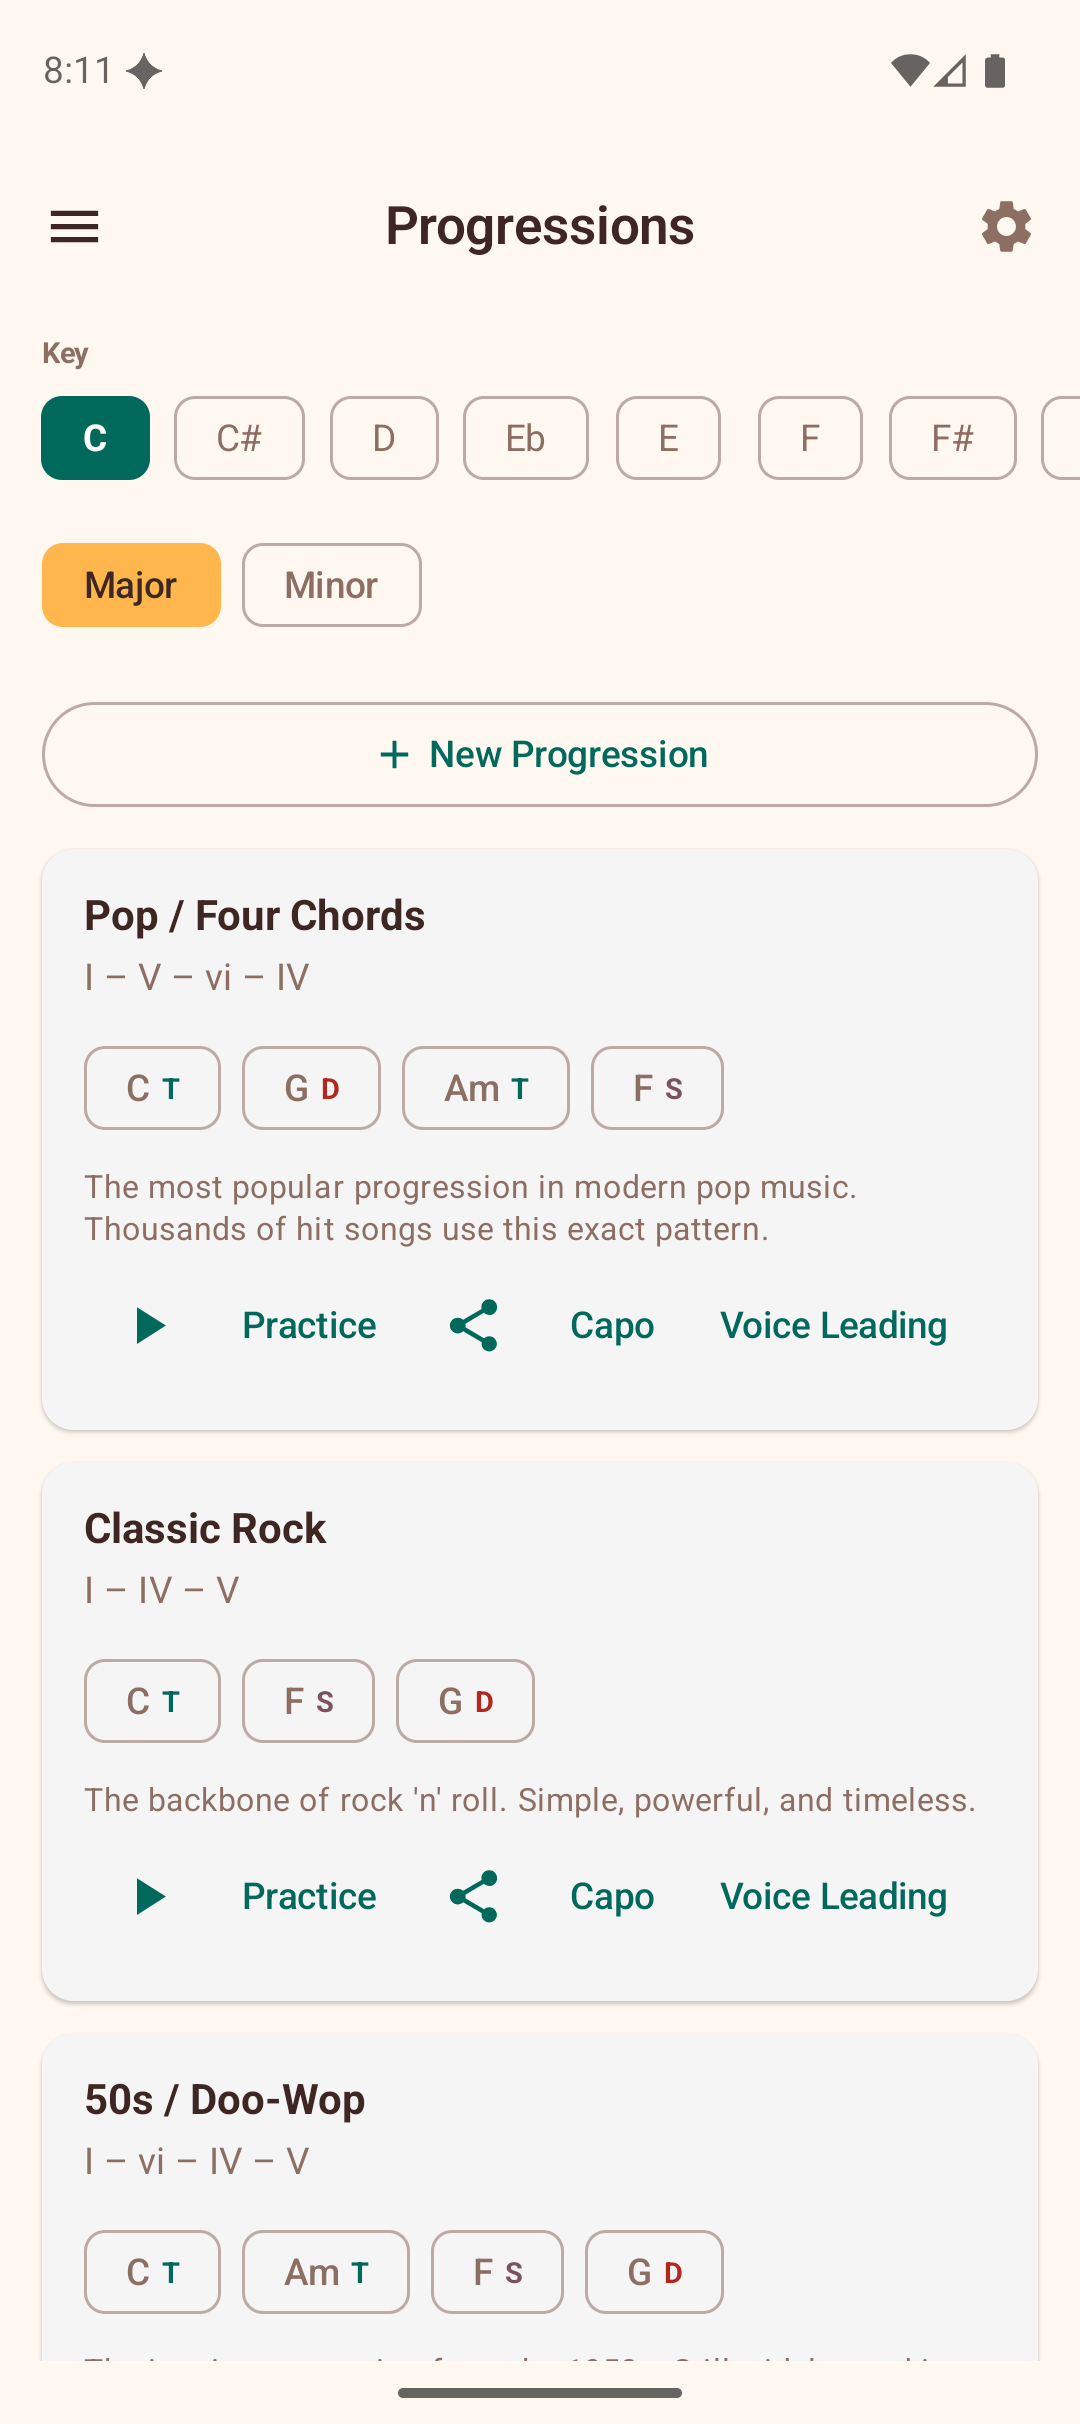
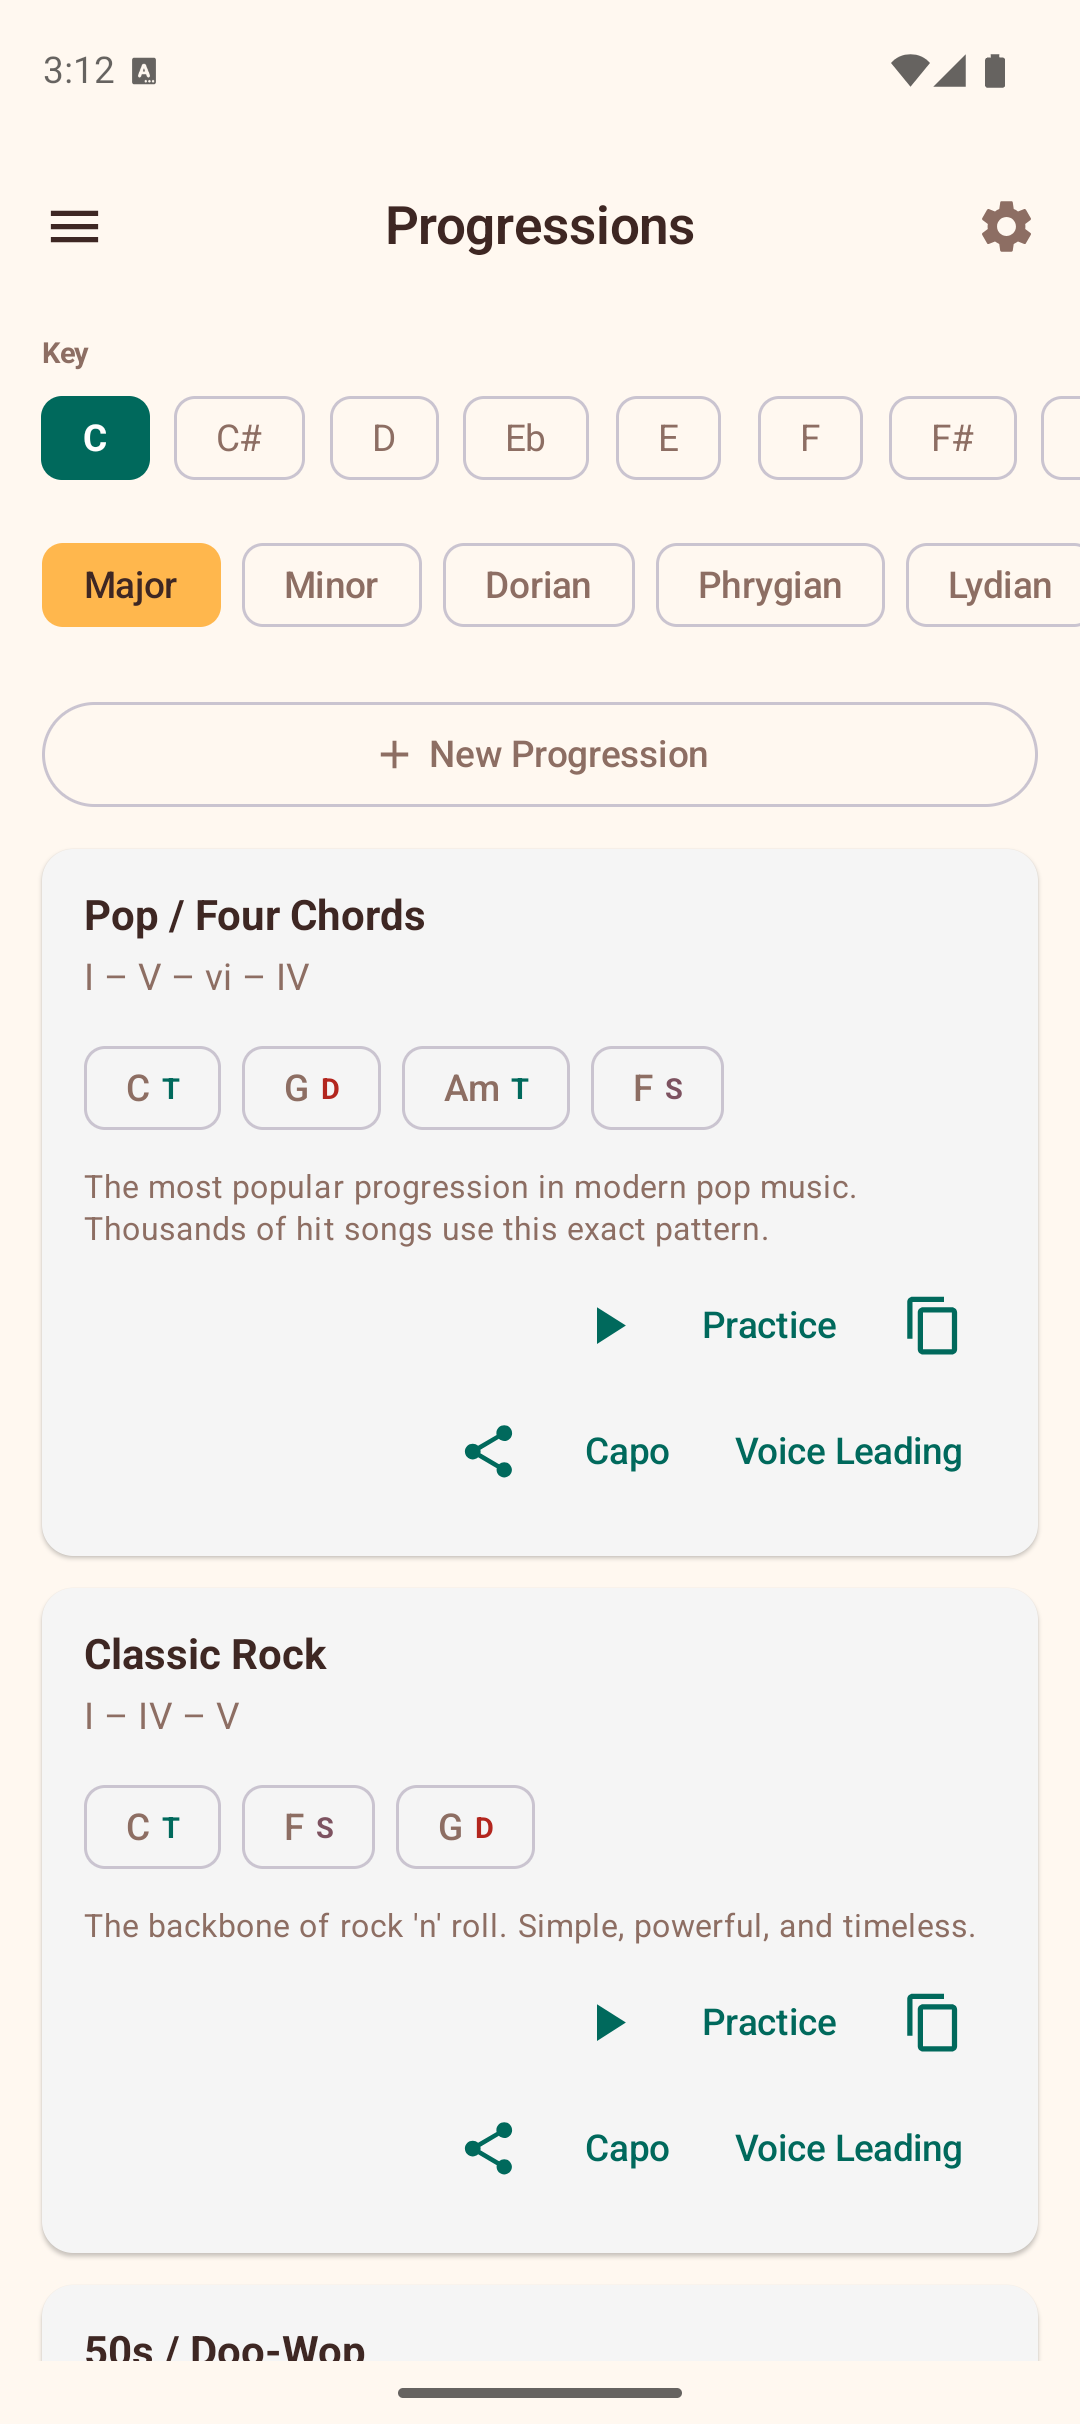
Docs: update screenshots and manual for recent UI changes
Recapture all 6 docs/screenshots images to reflect chord alias
display, enhanced voicing cards, mode selector, and pattern updates.
Update Explorer, Chords, and Progressions manual pages with new
features: chord detail info, "Also written as" aliases, inversion
filters, share icon, and 7-mode progression support.

diff --git a/docs/manual/02-explorer.md b/docs/manual/02-explorer.md
@@ -26,9 +26,24 @@ When no frets are selected, the area below the fretboard shows a **"Try these be
 
 Tap any fret cell on the fretboard to place or remove a finger. The fretboard displays frets 0 through 12 across four strings (G, C, E, A in standard tuning).
 
-As you tap frets, the app analyzes the selected notes and shows the detected chord name above the fretboard. The app recognizes 9 chord types: Major, Minor, Dom7, Min7, Maj7, Diminished, Augmented, Sus2, and Sus4.
+As you tap frets, the app analyzes the selected notes and shows the detected chord name above the fretboard. The app recognizes 20 chord types across four categories:
+
+- **Triads** — Major, Minor, Diminished, Augmented
+- **Seventh** — Dom7, Min7, Maj7, Aug7, Dim7, Minor Major 7th
+- **Suspended** — Sus2, Sus4, 7sus4
+- **Extended** — 6, Min6, 9, Min9, Add9
 
 ![Chord detected on fretboard](screenshots/explorer-chord-detected.png)
+
+### Chord Detail Info
+
+When a chord is detected, the area below the fretboard shows detailed information:
+
+- **Chord name** — with slash notation for inversions (e.g., C/E).
+- **Quality** — e.g., "Major", "Minor 7th (1st Inv)".
+- **Also written as** — alternate notational symbols used in different musical traditions. For example, detecting "Cdim" also shows "C°", and "Cmaj7" also shows "CM7, CΔ7, C^7". This helps you recognize the same chord written in different styles across books, apps, and sheet music.
+- **Alternate interpretations** — when the same set of notes can form a different chord (e.g., Am7 and C6 share the same notes).
+- **Intervals, Formula, Fingering, Difficulty, Inversion** — detailed music theory breakdown.
 
 ## Transpose
 
@@ -40,10 +55,9 @@ The scale overlay highlights notes from a selected scale directly on the fretboa
 
 To use the scale overlay:
 
-1. Scroll down below the fretboard to find the **Scale** section.
-2. Toggle the scale overlay on.
-3. Select a **root note** (e.g., C, G, D).
-4. Select a **scale type** (Major, Minor, Pentatonic Major, Pentatonic Minor, Blues, Dorian, or Mixolydian).
+1. Tap the **Scales** button below the fretboard.
+2. Select a **root note** (e.g., C, G, D).
+3. Select a **scale type** (Major, Natural Minor, Harmonic Minor, Melodic Minor, Pentatonic Major, Pentatonic Minor, Blues, Dorian, Mixolydian, or Lydian).
 
 Scale notes are highlighted on the fretboard, with the root note shown in a distinct color.
 
@@ -65,6 +79,15 @@ When a scale overlay is active, the fretboard automatically uses the correct not
 ### Chords in This Scale
 
 Below the position chips, the app lists the **chords that naturally occur** in the selected scale. Tap any chord chip to jump to its voicings in the Chord Library.
+
+## Did You Know?
+
+When no frets are selected, the Explorer shows a rotating **"Did you know?"** card with tips about ukulele history, music theory, chord notation, and practice techniques. Tap **Next tip** to see another one. These tips cover topics like:
+
+- Ukulele facts and history (origins, tuning, famous players).
+- Music theory nuggets (intervals, chord construction, the Circle of Fifths).
+- Chord notation conventions (what symbols like °, +, and Δ7 mean).
+- Practice advice (using a metronome, fingerpicking, recording yourself).
 
 ## Sound Playback
 

diff --git a/docs/manual/05-progressions.md b/docs/manual/05-progressions.md
@@ -1,15 +1,15 @@
 # Progressions
 
-The Progressions section shows common chord progressions for any key, in both major and minor scales.
+The Progressions section shows common chord progressions for any key across seven modes (Major, Minor, Dorian, Phrygian, Lydian, Mixolydian, and Locrian).
 
 ![Chord progressions](screenshots/progressions-view.png)
 
 ## Browsing Progressions
 
 1. **Select a key** — choose a root note at the top.
-2. **Choose major or minor** — toggle between the two scale types.
+2. **Choose a mode** — select from Major, Minor, Dorian, Phrygian, Lydian, Mixolydian, or Locrian. Each mode generates progressions using its own set of diatonic chords.
 
-The app displays a list of common progressions for that key: Pop (I-V-vi-IV), Classic Rock (I-IV-V), 50s (I-vi-IV-V), Folk, Jazz ii-V-I, Reggae, and more.
+The app displays a list of common progressions for that key and mode: Pop (I-V-vi-IV), Classic Rock (I-IV-V), 50s (I-vi-IV-V), Folk, Jazz ii-V-I, Reggae, and more.
 
 ## Progression Cards
 
@@ -21,11 +21,12 @@ Each progression card shows:
 
 ### Actions on Each Card
 
-- **Play** — hear the progression played back with the current sound settings.
+- **Practice** — hear the progression played back with the current sound settings.
+- **Duplicate** — create a copy of the progression as a new custom progression with "(Copy)" appended to the name. Available on both preset and custom progressions.
 - **Share** — export the progression as text to share with others.
+- **Capo** — view capo positions that let you play the progression using simpler chord shapes.
 - **Voice Leading** — view smooth voice-leading suggestions between the chords.
-- **Duplicate** — create a copy of the progression as a new custom progression with "(Copy)" appended to the name. Available on both preset and custom progressions. This is useful when you want to create a variant without changing the original.
-- **Edit** — open the progression in the editor to rename it, add or remove chords, or change the scale type. Available on custom progressions only (presets cannot be modified).
+- **Edit** — open the progression in the editor to rename it, add or remove chords, or change the mode. Available on custom progressions only (presets cannot be modified).
 
 ## BPM and Tap Tempo
 
@@ -35,7 +36,7 @@ The progression playback bar includes a BPM slider to control the playback speed
 
 You can create your own custom progressions by tapping the **+ button**. Custom progressions can be edited, duplicated, and deleted.
 
-- **Edit** lets you change the name, chord sequence, or scale type of an existing custom progression.
+- **Edit** lets you change the name, chord sequence, or mode of an existing custom progression.
 - **Duplicate** creates a new independent copy you can modify separately.
 - **Delete** permanently removes the custom progression.
 

diff --git a/docs/manual/03-chords.md b/docs/manual/03-chords.md
@@ -14,19 +14,40 @@ The app displays all available voicings as mini fretboard diagrams in a grid.
 
 ## Voicing Diagrams
 
-Each diagram shows:
+Each voicing card shows:
 
-- The fret positions for each string.
-- Open strings (played but not fretted) and muted strings.
-- A small play button to hear the voicing.
+- **Chord name** — displayed in bold at the top-right corner (e.g., "C", "Am").
+- **Fret diagram** — a mini fretboard showing finger positions, open strings, and muted strings.
+- **Note names** — the notes for each string shown below the diagram (e.g., G C E C).
+- **Fret numbers** — the fret number for each string aligned below the note names (e.g., 0 0 0 3).
+- **Inversion label** — Root, 1st Inv, 2nd Inv, etc.
+- **Favorite icon** — a heart at the top-left to save/remove from favorites.
+- **Share icon** — a share button at the bottom-right to export the voicing as an image.
 
 **Tap** a voicing to load it onto the Explorer fretboard, where you can see it in full size.
 
+## Inversion Filters
+
+Above the voicing grid, filter chips let you narrow voicings by inversion type:
+
+- **All** — shows every voicing with a count (e.g., "All (15)").
+- **Root**, **1st Inv**, **2nd Inv**, **3rd Inv** — each shows how many voicings match.
+
+Additional action buttons:
+
+- **Capo** — opens the capo calculator to find equivalent voicings with a capo.
+- **Viz** — opens the capo visualizer.
+- **Compare** — groups voicings by inversion for side-by-side comparison.
+
 ## Saving Favorites
 
-**Long-press** any voicing diagram to save it to your Favorites. A heart icon appears on voicings that are already saved. Tap the heart to remove it from favorites.
+Tap the **heart icon** on any voicing card to save it to your Favorites. A filled heart indicates a saved voicing. Tap again to remove it.
 
 See [Favorites](06-favorites.md) for more about managing your saved voicings.
+
+## Sharing Voicings
+
+Tap the **share icon** on any voicing card to export it as an image you can send to others.
 
 ## Playing Voicings
 
